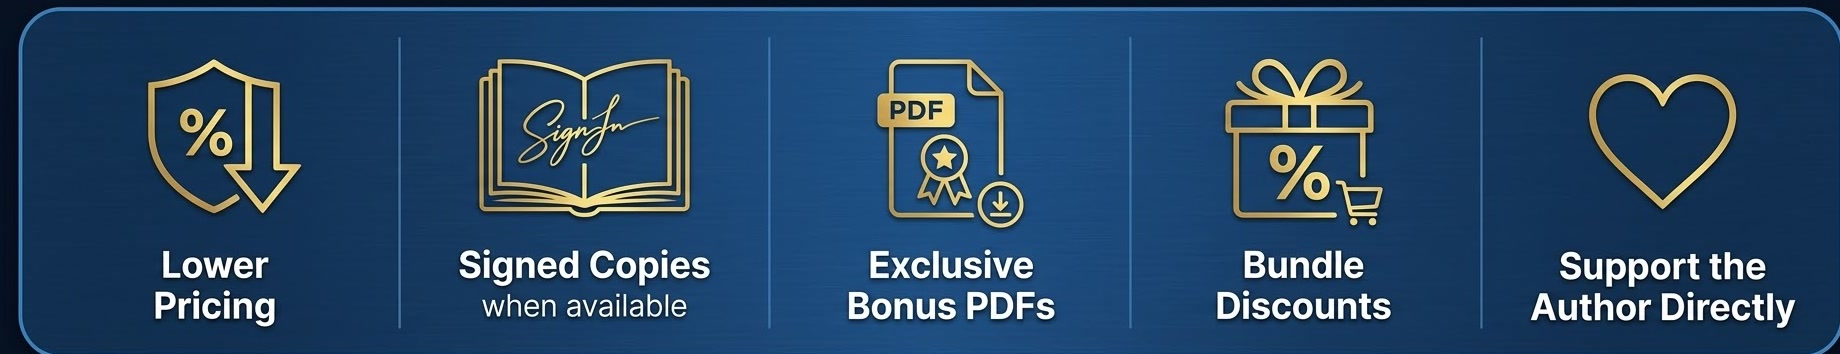
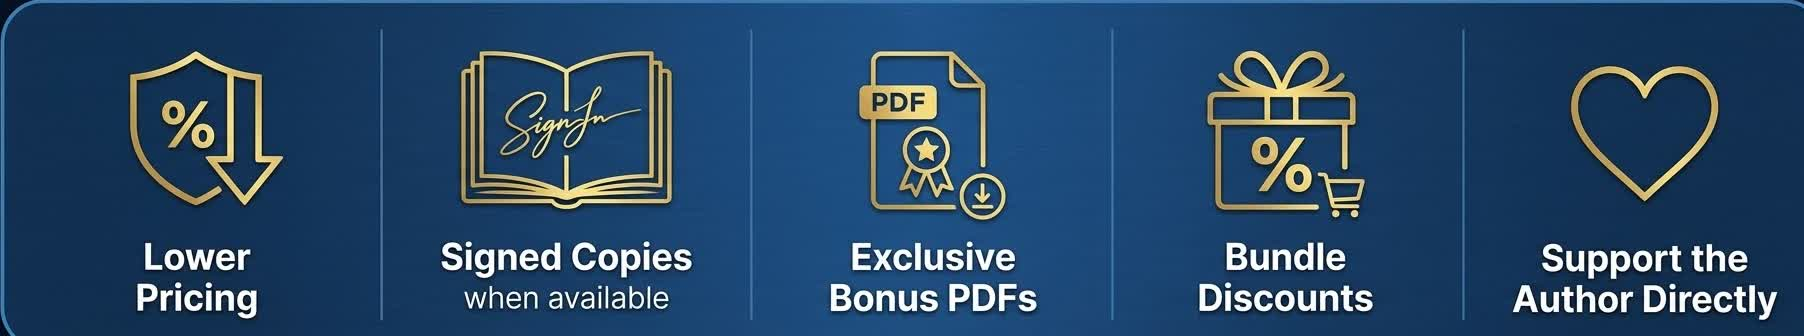
Polish direct benefits panel framing

diff --git a/section-polish.css b/section-polish.css
@@ -54,10 +54,10 @@
 .stats-bar div:nth-child(3) img.hands-studied-icon { content: normal; background: none; }
 
 /* Exact direct-purchase artwork supplied by the client. */
-.benefit-panel { display: block; aspect-ratio: 1840 / 354; min-height: 0; padding: 0; border: 0; border-radius: 0; background: url("assets/direct-benefits-reference.jpg") center / 100% 100% no-repeat; box-shadow: none; }
+.benefit-panel { display: block; aspect-ratio: 451 / 84; min-height: 0; padding: 0; border: 0; border-radius: 0; background: none; box-shadow: none; }
 .benefit-panel::before { display: none; }
 .benefit-panel span { opacity: 0; pointer-events: none; }
-.benefit-panel .benefit-reference-artwork { display: block; width: 100%; height: auto; }
+.benefit-panel .benefit-reference-artwork { display: block; width: 100%; height: 100%; object-fit: fill; }
 .stats-bar span.hands-studied-icon { position: relative; display: grid; place-items: center; width: 31px; height: 42px; margin: 0 auto; border: 3px solid #d9ab49; border-radius: 4px; background: transparent; box-shadow: none; }
 .stats-bar span.hands-studied-icon::before { content: '♠'; color: #d9ab49; font: 27px/1 Georgia, serif; transform: translateY(1px); }
 .stats-bar span.hands-studied-icon::after { content: 'A'; position: absolute; top: 3px; left: 4px; color: #d9ab49; font: 700 7px/1 Arial, sans-serif; }

diff --git a/script.js b/script.js
@@ -277,7 +277,7 @@ const directBenefitsPanel = document.querySelector('.benefit-panel');
 if (directBenefitsPanel) {
   const referenceArtwork = document.createElement('img');
   referenceArtwork.className = 'benefit-reference-artwork';
-  referenceArtwork.src = 'assets/direct-benefits-reference.jpg?v=1';
+  referenceArtwork.src = 'assets/direct-benefits-reference.jpg?v=2';
   referenceArtwork.alt = 'Lower pricing, signed copies, exclusive bonus PDFs, bundle discounts, and support the author directly.';
   directBenefitsPanel.replaceChildren(referenceArtwork);
 }
